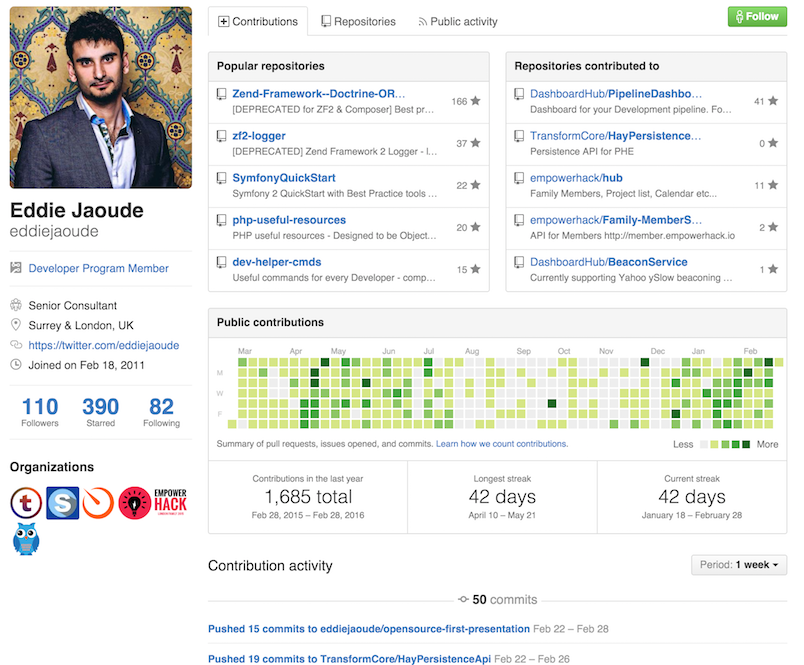
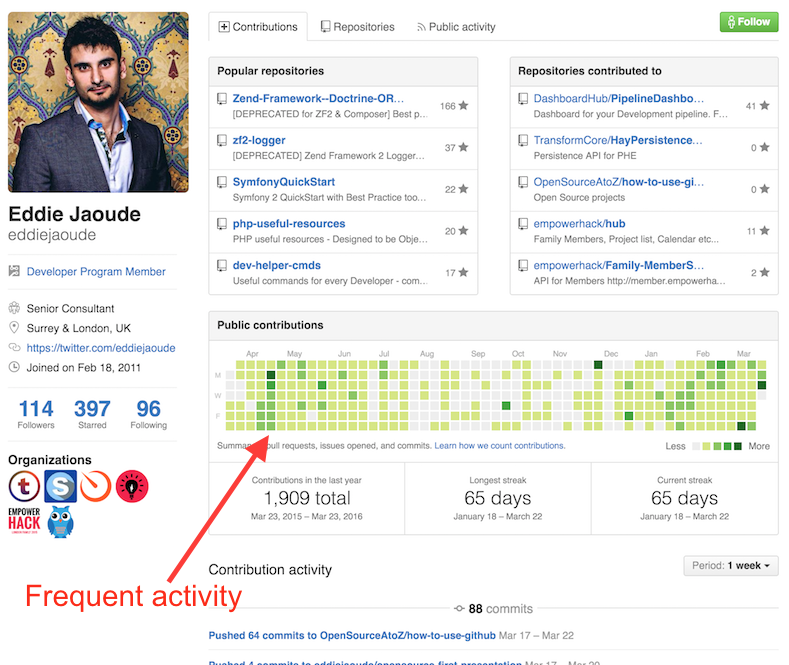
User image updated & notes updated

diff --git a/index.html b/index.html
@@ -119,9 +119,9 @@
             <section>
                 <img src="images/github/user.png"/>
                 <aside class="notes">
-                    <p>Repositories owned by user</p>
-                    <p>Repositories contributed to</p>
-                    <p>Activity</p>
+                    <p>Frequenty activity is good</p>
+                    <p>Follow me & I will follow you</p>
+                    <p>Organisations are important</p>
                 </aside>
             </section>
         </section>
